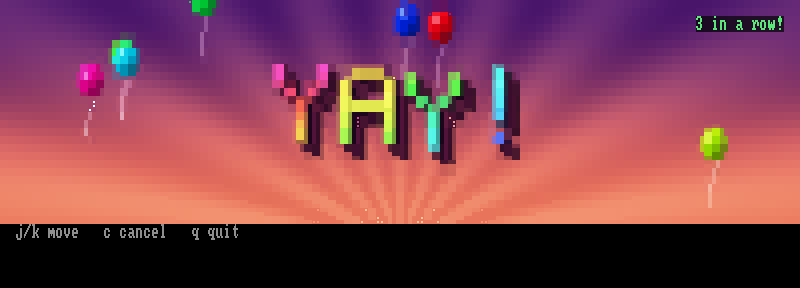
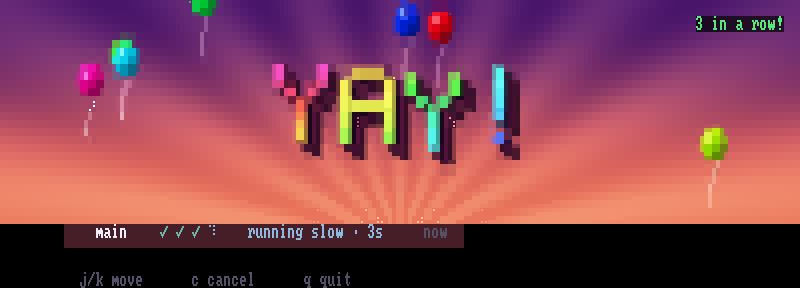
AT-12: write the quiet table into the design, protocol and README
design.md's console section describes the table as it is now drawn;
the protocol says Ruby sends one run per branch in the order shown and
that the renderer says a conflict and a stale trunk where they belong;
architecture.md records why Ruby orders the rows; acceptance-tests.md
lists the quiet table's tests as section 12; the unreleased 2.1.0
changelog and the README describe the new table, and the README's
pictures are drawn again from boards of one run per branch.

Claude-Session: https://claude.ai/code/session_01A24kfpuf4n34xpgLUqP9zb

diff --git a/lib/fun_ci/console/view.rb b/lib/fun_ci/console/view.rb
@@ -2,13 +2,14 @@
 
 module FunCi
   module Console
-    # What the user sees of the runs and does with them: KeyHandler's cursor
-    # and cancel confirmation, and one page of runs, as many as the terminal
-    # fits, scrolled so the run under the cursor is on it (renderer-protocol.md,
-    # `board`).
+    # What the user sees of the rows and does with them: KeyHandler's cursor
+    # and cancel confirmation, and one page of rows, one per branch, as many as
+    # the terminal fits, scrolled so the row under the cursor is on it
+    # (renderer-protocol.md, `board`).
     class View
-      # The renderer's 14-row header, a blank line, the stages' names, a blank
-      # line and the footer (renderer-protocol.md, `board`).
+      # The renderer's 14-row header, the footer and the lines around the
+      # table: a page this many rows short of the terminal fits one line per
+      # row, however the renderer spaces them (renderer-protocol.md, `board`).
       CHROME_ROWS = 18
 
       def initialize(key_handler:)

diff --git a/script/screenshots/shots.rb b/script/screenshots/shots.rb
@@ -10,10 +10,11 @@ module Screenshots
   # The README's pictures. Each scene is pinned, so the pictures come out the
   # same every time and a changed picture means the renderer draws differently.
   module Shots
+    # The other branches, one run each as the board carries them, newest first.
     HISTORY = [
       Run.of(11, "feature/search", "lint:0.5 build:1.4 fast:2.3 slow:51", ago: 1500),
-      Run.of(10, "main", "lint:0.4 build:1.3 fast:2.0 slow:49", ago: 3600),
-      Run.of(9, "fix/login", "lint:0.4 build:1.2 fast:fail@2.8 slow:47", ago: 7300)
+      Run.of(10, "docs/readme", "lint:0.4 build:1.3 fast:2.0 slow:49", ago: 3600),
+      Run.of(9, "fix/login", "lint:0.4 build:1.2 fast:2.8 slow:47", ago: 7300)
     ].freeze
     # A run going from start to pass: its stages, the stage that just passed,
     # the milestone that makes and its scene, and how many frames to show.

diff --git a/docs/design.md b/docs/design.md
@@ -164,12 +164,11 @@ and cheap to resolve.
   own, touching none of the developer's; the first fetch says so, and
   `trunk_fetch: false` stops it. A trunk fetched over an hour ago, or whose
   last fetch failed, is stale, and every line that depends on it says so.
-- The console marks a branch whose newest run conflicts: `conflicts main` in
-  magenta after its name, the one colour nothing else on the board uses, or
-  `↯ main` where the words don't fit, which the footer then explains.
-  The marker follows the branch's latest settled check, so it doesn't flicker
-  off while a new commit is being checked. Nothing else about the trunk is on
-  the rows; stale trunks get one dim note in the footer.
+- The console says so on the line under a branch that conflicts,
+  `conflicts with main`, in lilac, a hue no state uses, and the row needs you
+  as much as a timeout. It follows the branch's latest settled check, so it
+  doesn't flicker off while a new commit is being checked. A stale trunk is
+  said beside its project's name, `trunk last fetched 2h ago`.
 - `status` and `wait` print a trunk line with its age, and for a conflict the
   files, when and how to integrate (a pull on the trunk branch, a merge
   elsewhere, never a force push), and `fun-ci why <sha> trunk`, which shows the
@@ -179,8 +178,8 @@ and cheap to resolve.
 
 A stage is `scheduled`, `running`, then `completed`, `failed`, `timed_out` or
 `cancelled`. A run is `scheduled`, `running`, then `completed`, `failed` or
-`cancelled`. The console calls them Scheduled, RUNNING, PASSED, FAILED, TIMED
-OUT and CANCELLED.
+`cancelled`. The console says scheduled, running, passed, failed, timed out
+and cancelled.
 
 A run's status follows from its stages alone: `failed` once any stage
 has failed or timed out, `completed` once all four have passed, and `running`
@@ -195,51 +194,83 @@ fails once, however many of its stages fail.
 
 ## The console
 
-`fun-ci console` is one screen, like a departure board at a station: you look,
-you know, you go. An animated picture fills the top 14 rows; below it, after a
-blank line, the stages' names, then one row per run, newest first:
+`fun-ci console` is one screen: you look, you know, you go, and it stays calm
+to look at even when something broke, since a failure is feedback, not an
+alarm. An animated picture fills the top 14 rows; below it, each project's
+branches sit under the project's name, one row per branch:
 
 ```
-                                    lint     build    fast     slow
-▌❯8d552d0  feat/search      fun-ci  ✓ 0.3s   ✓ 1.2s   ⠹ 9s     ⠹ 9s     RUNNING     now
-▌ 93d480c  a-life conflicts main  kata  ✓ 2.3s   ✓ 7.8s   ✗ 1.4s   ✓ 1.3s   FAILED   6m
-  c67191d  feat/search      fun-ci  ✓ 0.3s   ✓ 1.2s   ✓ 1.8s   ✓ 47s    passed      10m
+  S T R I N G S - K A T A
+▄▄▄▄▄▄▄▄▄▄▄▄▄▄▄▄▄▄▄▄▄▄▄▄▄▄▄▄▄▄▄▄▄▄▄▄▄▄▄▄▄▄▄▄▄▄▄▄▄▄▄▄▄▄▄▄▄▄▄▄▄▄▄▄▄▄▄▄▄▄▄▄▄▄▄
+    a-life-of-its-own                 ✓ ✓ ◆ ✓    failed in fast · 1.4s       6m
+      conflicts with main
+▀▀▀▀▀▀▀▀▀▀▀▀▀▀▀▀▀▀▀▀▀▀▀▀▀▀▀▀▀▀▀▀▀▀▀▀▀▀▀▀▀▀▀▀▀▀▀▀▀▀▀▀▀▀▀▀▀▀▀▀▀▀▀▀▀▀▀▀▀▀▀▀▀▀▀
+    main                              ◌ ◌ ◌ ◌    scheduled                  now
 
-  j/k move   c cancel   q quit   kata: trunk 2h old
+
+  A G E N T - T O M E      trunk last fetched 2h ago
+
+    fix/crash                         ✓ ◆ · ·    failed in build · 0.9s     40m
+
+    refactor/extract-the-evidence…    ✓ ✓ ◇ ✓    timed out in fast · 10s    25m
+
+
+  F U N - C I
+
+    feat/search                       ✓ ✓ ⠹ ⠹    running fast and slow · 7s now
+
+    trunk-conflicts                   ✓ ✓ ✓ ✓    passed                     14m
+
+
+  j/k move      c cancel      q quit
 ```
 
-- A row reads like a sentence: commit, branch, project, the four stages with
-  their times, the outcome, and when. Each stage has its own column, always
-  in the order lint, build, fast, slow, so the eye runs down a column instead
-  of reading along a row.
-- Each stage shows its state by shape and colour together: a green `✓` for
-  passed, a bold red `✗` for failed, a bold amber `▲` for timed out, a cyan
-  spinner with a time that ticks up for running, a faint `·` for not reached,
-  `–` for cancelled and a grey `◌` for waiting to run. A wall of green ticks
-  means everything is fine.
-- The newest run of each branch carries its state in a bar at the left edge,
-  so reading down that edge gives every branch's health; a running run's bar
-  pulses. A run still waiting to start takes over from nothing: the result
-  before it keeps the bar until the new run starts. A run that a newer run of its branch replaced is dimmed, its outcome
-  in lower case: a failure already fixed no longer shouts. A current failure
-  or timeout, and only trouble, gets a dark band of its colour across the row.
-- Runs of a branch cancelled one after another, as a rebase leaves them, fold
-  into one row: `detached ×25`, faint, with no stages.
-- The outcome word matches: PASSED in bold green, FAILED in bold red, TIMED
-  OUT in bold amber, RUNNING in bold cyan. A scheduled run says `waiting` in
-  grey, and a cancelled one is faint, neither good nor bad.
-- The project shows, in grey, only when the board holds more than one. The
-  age is short (`now`, `6m`, `2h`, `3d`) and faint: always there, never
-  competing.
-- Nothing wraps. As the terminal narrows, the SHA goes first, then the project
-  shrinks to its initial, then the stages keep their marks and lose their
-  times; a branch too long for its column is cut with `…`. It works from 60
-  columns wide up.
-- `j` and `k` (or the arrows) move the cursor, a white `❯` with the branch in
-  bold white and the row lifted; `c` cancels the run under it,
-  `q` quits. Cancelling a scheduled run happens at once; a running one asks
-  first, naming it (`Cancel feat/search (d4e5f67)? y / n`), because a process
-  gets killed.
+- A branch has one row, its newest run's, so the table says where each branch
+  stands. The row reads as one phrase: the branch, four marks for lint,
+  build, fast and slow, what happened in fun-ci's own words, and when.
+  The words are exact: `failed in fast · 1.4s`, `timed out in fast · 10s`,
+  `running fast and slow · 7s`, `passed`, `scheduled`, `cancelled`, and
+  `3 runs cancelled` for a branch's runs cancelled one after another, as a
+  rebase leaves them. The calm comes from how the table looks, never from
+  softer words.
+- Each mark says its stage's state by shape as well as colour: `✓` passed,
+  `◆` failed, `◇` timed out, a spinner while it runs, `·` not reached (a
+  stage a failure stopped too), `◌` waiting to run, `–` cancelled with its
+  run. Without column headings the marks come in lint, build, fast, slow
+  order, and the words name the stage.
+- A project's rows sit under its name in letter-spaced capitals. The project
+  that most needs you comes first, and within a project a failure, then a
+  timeout or a conflict with the trunk, then running, scheduled, passed and
+  cancelled rows, newest first among equals. With one project there is no
+  label.
+- One deep wine block holds the row the cursor is on, or, with no cursor,
+  the first row that needs you: a failure, a timeout, a conflict. When nothing
+  needs you there is no block. The block breathes, lightening and easing once
+  every four seconds; besides it only a running stage's spinner moves.
+- Passed rows are pale, at about a third of their brightness. When nothing
+  needs you, a project's passed branches fold into one pale line, each with
+  its age (`main 1h   kata/strings 5h   passed`); the rows come back when
+  something needs you. A board where everything has passed gets one firefly,
+  no brighter than a pale name, wandering in the open space below the table.
+- The colours come from the header's night scenes: teal for passed, coral for
+  failed, amber for timed out, blue for running, lilac for a conflict,
+  violet-greys for names and labels. No two states share a hue.
+- The marks, the words and the age follow the longest branch name, so each row
+  reads as one phrase and the block is only as wide as what it holds. Nothing
+  wraps, and nothing that says what happened is cut: as the terminal
+  narrows, the gaps close, then the margins, and only then is a branch name cut
+  with `…`. It works from 60 columns wide up.
+- On a short screen the table gives up, in this order: the passed rows fold
+  into one line per project; the folded lines go, counted beside the keys
+  (`2 passed not shown`); the blank lines between rows close up; the labels
+  go, each row then naming its project first (`strings-kata  a-life…`), and a
+  stale trunk takes a line of its own above the keys. The cursor's row always
+  stays on screen, the rows it pushed off counted (`… 4 more below`).
+- `j` and `k` (or the arrows) move the cursor, which takes the block; `c`
+  cancels the run under it, and is offered only while a run is running or
+  waits to start; `q` quits. Cancelling a scheduled run happens at once; a
+  running one asks first, naming it (`Cancel feat/search (d4e5f67)? y / n`),
+  because a process gets killed.
 - The board is always live, so there is no refresh key. With no runs yet it
   says `No runs yet.`
 - The streak counts consecutive passed runs; a running run neither breaks nor

diff --git a/docs/renderer-protocol.md b/docs/renderer-protocol.md
@@ -96,30 +96,34 @@ The full state to show. Always complete — never a diff.
   changing.
 - `updated_at` is the run's last status change; the row's age (`2m`) counts
   from it.
-- `project` (optional) is the path of the project the run belongs to. The
-  renderer shows its basename in grey when the page holds runs of more than
-  one project.
+- `project` (optional) is the path of the project the run belongs to. When the
+  page holds rows of more than one project, the renderer puts each project's
+  rows under its basename.
 - `trunk` (optional) on a run is its branch's standing against the trunk,
-  `{"branch_state": "conflicts", "trunk": "main"}`. Ruby sends it only on the
-  runs whose row shows it: a branch's newest run, when the branch's latest
-  settled check conflicts. The renderer draws `conflicts <trunk>` after the
-  branch, or `↯ <trunk>` where words don't fit, and then explains `↯` in the
-  footer.
+  `{"branch_state": "conflicts", "trunk": "main"}`. Ruby sends it when the
+  branch's latest settled check conflicts. The renderer says
+  `conflicts with <trunk>` on the line under the branch.
 - `folded` (optional) on a run says how many cancelled runs of its branch,
   one after another, it stands for, itself included (a rebase leaves such a
-  stream). Ruby folds them so the cursor and pages count rows; the renderer
-  draws `×<folded>` after the branch and no stages. Ruby leaves it out for a
-  run that stands for itself alone.
+  stream). The renderer says `<folded> runs cancelled` and draws no marks.
+  Ruby leaves it out for a run that stands for itself alone.
 - `stale_trunks` (optional) names the projects whose trunk is stale,
   `[{"project": "/src/app", "since": 1789989200}]`, `since` being the last
-  good fetch (epoch seconds) or null when the last fetch failed. The footer
-  says so once. Ruby leaves it out when no trunk is stale.
-- `runs` is one page: at most `rows - 18` runs for the terminal's `rows` (a
-  14-row header, a blank line, the stages' names, a blank line and the
-  footer; one row per run), scrolled
-  so the run under the cursor is on it. `cursor` indexes into `runs`, and
-  `has_more` says there are runs below the page. Ruby pages from the `rows` of
-  `ready` and of each `resize`.
+  good fetch (epoch seconds) or null when the last fetch failed. The renderer
+  says so beside the project's name, or on a line above the footer when the
+  screen is too short for names. Ruby leaves it out when no trunk is stale.
+- `runs` holds one run per branch, the branch's newest, in the order the rows
+  are shown, which is the order the cursor moves in: a project's branches
+  together, the project that most needs you first, and within a project a
+  failure, then a timeout or a conflict, running, scheduled, passed and
+  cancelled, newest first among equals. The renderer draws them in that order
+  and starts a project's label wherever the project changes.
+- `runs` is one page: at most `rows - 18` rows for the terminal's `rows`,
+  scrolled so the row under the cursor is on it; that many fit one line each
+  under the 14-row header with room for the footer, and the renderer folds and
+  closes up what it must to show them, keeping the cursor's row on screen.
+  `cursor` indexes into `runs`, and `has_more` says there are rows below the
+  page. Ruby pages from the `rows` of `ready` and of each `resize`.
 
 ### `event`
 `{"t":"event","name":"<name>","run_id":42,"stage":"fast"}`

diff --git a/CHANGELOG.md b/CHANGELOG.md
@@ -21,25 +21,24 @@ and this project adheres to [Semantic Versioning](https://semver.org/spec/v2.0.0
 - fun-ci fetches the trunk itself, at most every five minutes, into
   `refs/fun-ci/trunk/`, touching none of your refs, and says so the first time.
   `trunk_fetch: false` stops it, and `trunk: none` turns the check off.
-- The console marks a branch that conflicts with the trunk, `conflicts main`
-  in magenta, and plays a knot tying, and later untying, in the header.
+- The console says when a branch conflicts with the trunk, `conflicts with
+  main` under it, and plays a knot tying, and later untying, in the header.
   This needs renderer 2.1.0, which the platform gems bring; with an older
   renderer, as `cargo install` left it, the console works but shows no
   conflicts.
 - `fun-ci --help` lists `--raw`, which it left out.
 
 ### Changed
-- The console's table is drawn anew. Each stage has a column of its own,
-  always lint, build, fast, slow, with a mark that says its state by shape as
-  well as colour (`✓ 1.2s`, `✗ 1.4s`, `▲ 10s`, a spinner while it runs).
-  The newest run of each branch carries its state in a bar at the left edge;
-  a run a newer one replaced is dimmed, so a failure you fixed stops shouting;
-  a current failure or timeout gets a dark band of its colour. Runs take one
-  row each, so twice as many fit, and a branch's runs cancelled one after
-  another, as a rebase leaves them, fold into one row (`detached ×25`).
-  Project names are grey rather than in colours that looked like states, and
-  show only when the board holds more than one project. The cursor is a white
-  `❯` that lifts its row.
+- The console's table is quieter. Each branch has one row, its newest run's,
+  under its project's name, and reads as one phrase: the branch, a mark each
+  for lint, build, fast and slow (`✓ ✓ ◆ ✓`), what happened in fun-ci's words
+  (`failed in fast · 1.4s`, `running fast and slow · 7s`) and when. What needs
+  you, a failure, a timeout or a conflict, comes first, and the first of it,
+  or the row under the cursor, sits in one deep block that breathes; passed
+  rows are pale, and fold into one line per project when nothing needs you.
+  The colours come from the header's night scenes. On a short screen the table
+  folds and closes up before it leaves anything out, and says how many passed
+  rows it left out. `c cancel` shows only when there is something to cancel.
 
 ### Fixed
 - A console row wider than the terminal, from a long branch name or a

diff --git a/docs/acceptance-tests.md b/docs/acceptance-tests.md
@@ -885,7 +885,42 @@ trunk is stale.
 ### 11.47 A contract fixture holds the trunk conversation on both sides
 
 ### 11.48 The renderer draws the marker, the stale note and the two scenes
-**Then** `conflicts <trunk>` in bold magenta after the branch, before the
-stages, which effects still land on; a dim `trunk stale:` note in the footer;
-a scene from each trunk pool and a fading conflict banner, without changing the
-resting outcome, the lamp or the streak.
+**Then** `conflicts with <trunk>` in lilac italics on the line under the
+branch, whose marks effects still land on; the stale trunk beside its
+project's name (section 12); a scene from each trunk pool and a fading
+conflict banner, without changing the resting outcome, the lamp or the streak.
+
+## 12. The quiet table
+
+The table under the header, drawn anew after a search that built and compared
+candidates five at a time (design.md, The console). The Ruby side is in
+`test/integration/test_console_board_rows.rb`, the renderer's in
+`renderer/tests/suite/quiet_*.rs`; the parts each rests on have tests of their
+own (`test_row_order.rb`, `renderer/tests/suite/table_*.rs`).
+
+### 12.1 One row per branch
+**Given** a branch run twice **Then** the board carries only its newest run.
+
+### 12.2 Rows in the order that needs you
+**Then** a project's branches come together, the project with a failure
+before one without, and the cursor walks them in that order.
+
+### 12.3 A project's branches under its name
+**Then** each project's rows sit under its name in letter-spaced capitals.
+
+### 12.4 One block for what needs you
+**Then** the cursor's row, or with no cursor the first row that needs you,
+sits in one deep block; a board where nothing needs you has none.
+
+### 12.5 The words leave a short name whole
+**Then** on 60 columns a nine-letter branch keeps its whole name.
+
+### 12.6 The block breathes, and a still board rests
+**Then** the block lightens over two seconds; with nothing needing you, a
+project's passed branches fold into one line; a board where everything passed
+shows one firefly no brighter than a pale name, and a running board none.
+
+### 12.7 A short screen keeps what needs you and counts the rest
+**Then** a stale trunk is said beside its project's name; a short screen keeps
+the failures and their projects' names and counts the passed rows it left
+out; a screen too short for the names says the stale trunk on its own line.

diff --git a/README.md b/README.md
@@ -59,7 +59,7 @@ Results are kept in SQLite under `$XDG_STATE_HOME/fun-ci/` (`~/.local/state/fun-
 fun-ci console
 ```
 
-The console lists your runs across branches, newest first, one row each: the commit, the branch, each stage with its time, and the outcome. Above them is a picture that tells you what is happening without reading a word.
+The console shows where each branch stands, one row per branch under its project's name: a mark for each stage, what happened (`failed in fast · 1.4s`) and when. What needs you comes first, in one deep block; passed rows stay pale. Above them is a picture that tells you what is happening without reading a word.
 
 While a run runs, a rocket flies. Each milestone a run passes has its own set of scenes, so you can tell which one it was from across the room, and a failure has its own.
 

diff --git a/docs/architecture.md b/docs/architecture.md
@@ -41,6 +41,14 @@ milliseconds, full SHAs). "2m" must keep ticking between Ruby pushes, and
 the renderer owns the clock, so it owns the formatting.
 *Revisit if* formatting rules start needing data only Ruby has.
 
+**Decision: Ruby orders the rows.** The table shows a branch's newest run,
+grouped by project with what needs you first (design.md, The console). Which
+row comes next is also where `j` moves the cursor and what `c` cancels, and
+the cursor lives in Ruby, so Ruby sends one run per branch in the order they
+are shown, and the renderer draws them as they come, only choosing how much
+air and how many passed rows fit.
+*Revisit if* the renderer comes to own the cursor.
+
 ## Process model and protocol
 
 `fun-ci console` (Ruby) spawns `fun-ci-renderer` as a child process.
